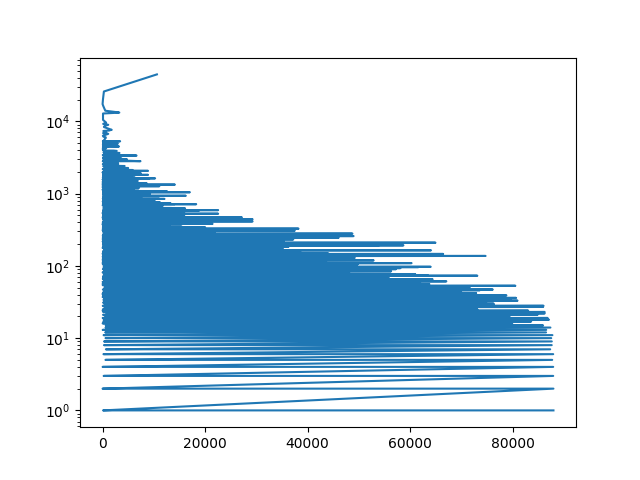
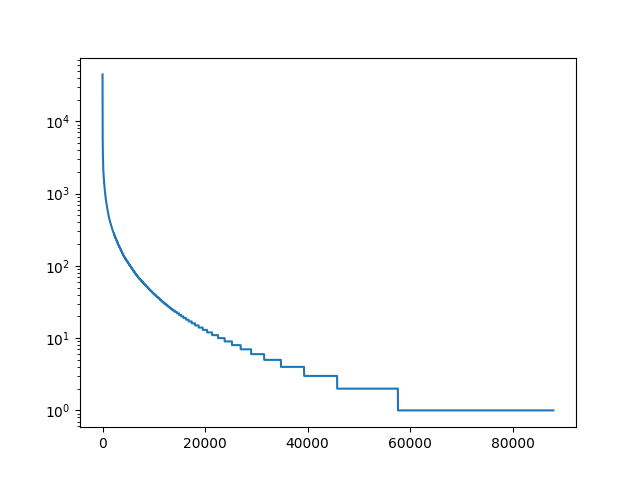
Fixed frequency graph

Changed region(s): [[0.1562, 0.1562, 0.875, 0.875]]

diff --git a/assignment1/Vocabulary.py b/assignment1/Vocabulary.py
@@ -110,13 +110,14 @@ class Vocabulary:
         make_vocab_charts plots word frequency and cumulative coverage charts for this vocabulary. See handout for more details
 
         
-        """ 
+        """  
         
-        sorted_tokens = {self.word2idx[k]: v for k, v in sorted(self.freq.items(), key=lambda item: item[1], reverse=True)}
-        # id_freq_pair = {self.word2idx[k]: v for k, v in sorted_tokens.items()}
-        plt.plot(sorted_tokens.keys(), sorted_tokens.values())
+        sorted_tokens = [v for v in sorted(self.freq.values(), reverse=True)]
+        plt.plot(range(0, len(sorted_tokens)), sorted_tokens)
         plt.yscale("log")
         plt.savefig("frequency")
-
+        
+        
+        
         
 
